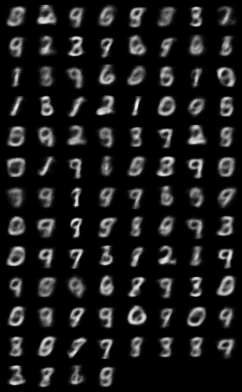
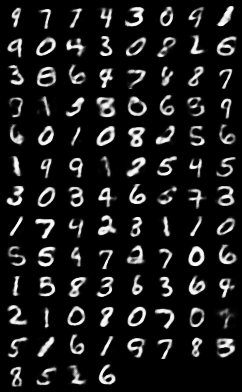
dataset: commutation enabled

diff --git a/main.py b/main.py
@@ -18,42 +18,60 @@ from framework.utils import to_var
 
 from toyDataset import dataset as dts
 
-#%% MNIST dataset
-DATASET = datasets.MNIST(root='./data',
-                          train=True,
-                          transform=transforms.ToTensor(),
-                          download=True)
 
-# Data loader
-DATA_LOADER = torch.utils.data.DataLoader(dataset=DATASET,
-                                           batch_size=100,
-                                           shuffle=True)
+#%% Importing DATASET
 
-#%% Toy Dataset loading
-# Parameters
-# n_fft = 1024
+sel_dataset = 'MNIST'
+#sel_dataset = 'toydataset'
 
-# Creating dataset
-# DATASET = dts.toyDataset()
-# dataset = DATASET.get_minibatch()
-#DATA_LOADER = torch.utils.data.DataLoader(dataset=DATASET,
-#                                         batch_size = 100,
-#                                         shuffle=False)
+if sel_dataset == 'MNIST':
+    # MNIST dataset
+    DATASET = datasets.MNIST(root='./data',
+                              train=True,
+                              transform=transforms.ToTensor(),
+                              download=True)    
+    # Data loader
+    DATA_LOADER = torch.utils.data.DataLoader(dataset=DATASET,
+                                               batch_size=100,
+                                               shuffle=True)
+elif sel_dataset == 'toydataset':
+    # Toy Dataset loading
+    # Parameters
+    n_fft = 1024
+    
+    # Creating dataset
+    DATASET = dts.toyDataset()
+    # dataset = DATASET.get_minibatch()
+    DATA_LOADER = torch.utils.data.DataLoader(dataset=DATASET,
+                                             batch_size = 100,
+                                             shuffle=False)
 
 
 #%%
 """ TRAINING THE VAE MODEL """
 
-# fixed inputs for debugging
-FIXED_Z = to_var(torch.randn(100, 20))
-# Saving an item from the dataset to debug
-FIXED_X, _ = DATASET.__getitem__(9)
-FIXED_X = torch.Tensor(FIXED_X).contiguous() # As a contiguous memory block
-
-# Retrieving Height and width
-#HEIGHT,WIDTH = FIXED_X.size()
-
-torchvision.utils.save_image(FIXED_X, 
+if sel_dataset == 'MNIST':    
+    ITER_PER_EPOCH = len(DATA_LOADER)
+    DATA_ITER = iter(DATA_LOADER)
+    
+    # fixed inputs for debugging
+    FIXED_X, _ = next(DATA_ITER)
+    torchvision.utils.save_image(FIXED_X.cpu(), './data/real_images.png')
+    FIXED_X = to_var(FIXED_X.view(FIXED_X.size(0), -1))
+    
+    DATA_ITER = enumerate(DATA_LOADER)    
+elif sel_dataset == 'toydataset':    
+    # fixed inputs for debugging
+    FIXED_Z = to_var(torch.randn(100, 20))
+    # Saving an item from the dataset to debug
+    FIXED_X, _ = DATASET.__getitem__(9)
+    FIXED_X = torch.Tensor(FIXED_X).contiguous() # As a contiguous memory block
+    
+    # Retrieving Height and width
+    #HEIGHT,WIDTH = FIXED_X.size()
+    
+    ## SAVING fixed x as an image
+    torchvision.utils.save_image(FIXED_X, 
                              './data/real_images.png', 
                              normalize=False)
 
@@ -64,7 +82,7 @@ betaVAE = modVAE.VAE()
 # BETA: Regularisation factor
 # 0: Maximum Likelihood
 # 1: Bayes solution
-BETA = 10
+BETA = 1
 
 # GPU computing if available
 if torch.cuda.is_available():
@@ -75,14 +93,21 @@ if torch.cuda.is_available():
 OPTIMIZER = torch.optim.Adam(betaVAE.parameters(), lr=0.001)
 
 ITER_PER_EPOCH = len(DATA_LOADER)
-NB_EPOCH = 2;
+NB_EPOCH = 5;
 
 #%%
 """ TRAINING """
 for epoch in range(NB_EPOCH):
-    for i,(images,param) in enumerate(DATASET):
-        
-
+    
+    # Setting-up the relevant data_iterator
+    if sel_dataset == 'MNIST':
+        DATA_ITER = enumerate(DATA_LOADER)
+    elif sel_dataset == 'toydataset':
+        DATA_ITER = DATA_LOADER
+    
+    # Epoch
+    for i,(images,param) in DATA_ITER:
+        # Formatting
         images = to_var(torch.Tensor(images)).view(images.size(0), -1)
         out, mu, log_var = betaVAE(images)
 
@@ -127,4 +152,4 @@ sampled_images = betaVAE.sample(FIXED_Z)
 # Saving
 sampled_images = sampled_images.view(sampled_images.size(0), 1, 28, 28)
 torchvision.utils.save_image(sampled_images.data.cpu(),
-                             './data/sampled_images.png')
+                             './data/sampled_image.png')
